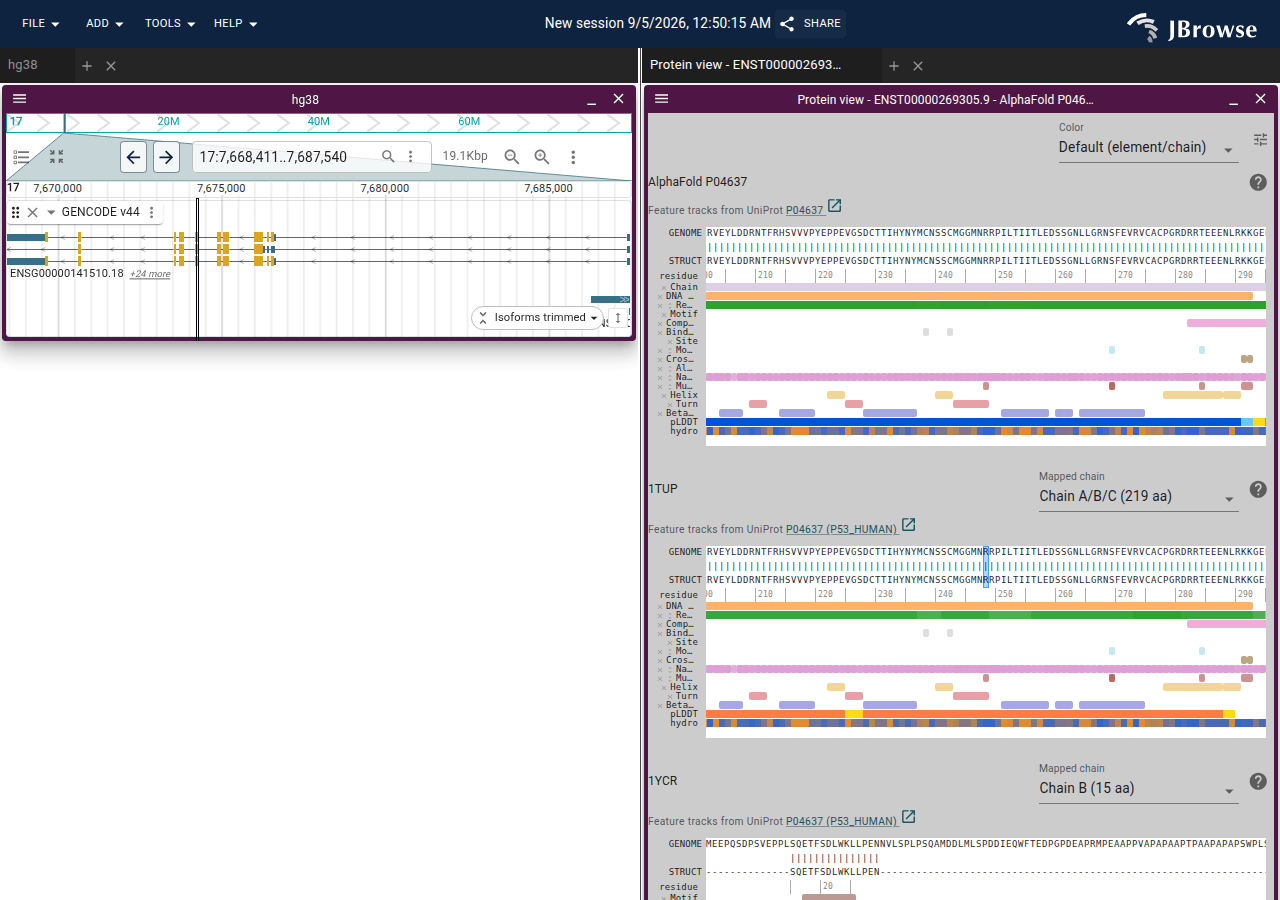
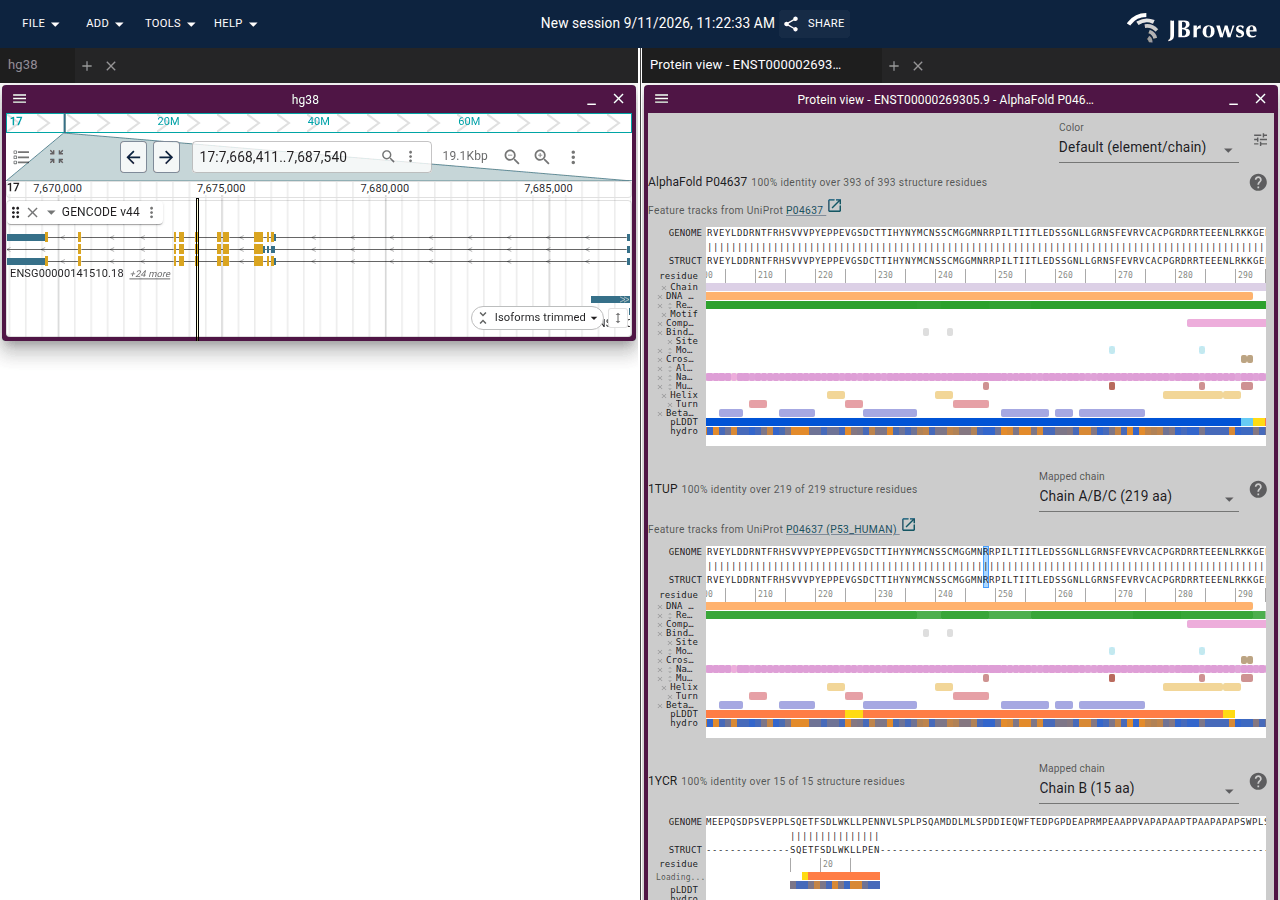
fix(alignmentQuality): a short but near-perfect peptide alignment is not low similarity
The e2e screenshot showed 1YCR's 15 p53 residues, every one identical,
flagged under a flat 20-identical-residue floor. Under 20 residues the
ratio floor now rises to 0.8 instead, which a real bound peptide clears
and a 10-residue decoy with 3 identities does not; under 5 nothing passes.
Reference screenshots for the multi-structure and hotspot legs updated for
the header readout.

diff --git a/src/ProteinView/alignmentQuality.ts b/src/ProteinView/alignmentQuality.ts
@@ -32,11 +32,19 @@ export interface AlignmentQuality {
  * identity nor coverage alone separates those from a real match. Identical
  * residues over the shorter sequence does: 0.03, 0.20 and 0.24 for the chance
  * cases against 0.9 or better for any structure of the transcript's protein
- * and about 0.6 for an ortholog. The residue floor keeps a 20-column chance
- * hit on a short peptide from passing on ratio alone.
+ * and about 0.6 for an ortholog.
+ *
+ * A short alignment has to be nearly perfect instead: a 10-residue decoy with
+ * 3 identities sits at the ratio floor, while a real bound peptide (1YCR's 15
+ * p53 residues, 4ZZJ's 7) is identical or one off. So under
+ * SHORT_ALIGNMENT_RESIDUES identical residues the ratio floor rises to
+ * SHORT_ALIGNMENT_IDENTITY, and under MIN_IDENTICAL_RESIDUES nothing passes,
+ * since a tetrapeptide is never the gene's product.
  */
 export const LOW_IDENTITY_OVER_SHORTER = 0.3
-export const MIN_IDENTICAL_RESIDUES = 20
+export const SHORT_ALIGNMENT_RESIDUES = 20
+export const SHORT_ALIGNMENT_IDENTITY = 0.8
+export const MIN_IDENTICAL_RESIDUES = 5
 
 export function alignmentQuality(pa: PairwiseAlignment): AlignmentQuality {
   const t = transcriptAlignedSeq(pa)
@@ -76,10 +84,11 @@ export function alignmentQuality(pa: PairwiseAlignment): AlignmentQuality {
 }
 
 export function isLowSimilarity(q: AlignmentQuality) {
-  return (
-    q.identical < MIN_IDENTICAL_RESIDUES ||
-    q.identityOverShorter < LOW_IDENTITY_OVER_SHORTER
-  )
+  const floor =
+    q.identical < SHORT_ALIGNMENT_RESIDUES
+      ? SHORT_ALIGNMENT_IDENTITY
+      : LOW_IDENTITY_OVER_SHORTER
+  return q.identical < MIN_IDENTICAL_RESIDUES || q.identityOverShorter < floor
 }
 
 /** One line for the alignment header: "87% identity over 219 of 393

diff --git a/src/ProteinView/alignmentQuality.test.ts b/src/ProteinView/alignmentQuality.test.ts
@@ -3,11 +3,12 @@ import { expect, test } from 'vitest'
 import {
   HBB_BETA_4HHB_ENTITY1,
   HBB_TRANSCRIPT_P68871,
+  P53_PEPTIDE_4ZZJ_ENTITY1,
   P53_TRANSCRIPT_P04637,
   RPS11_7K00_CHAIN_K,
 } from './__fixtures__/structureFixtures'
 import {
-  MIN_IDENTICAL_RESIDUES,
+  SHORT_ALIGNMENT_RESIDUES,
   alignmentQuality,
   describeAlignmentQuality,
   isLowSimilarity,
@@ -69,8 +70,32 @@ test('a real match is not flagged, a chance alignment is', () => {
       'smith_waterman',
     )!.alignment,
   )
-  expect(chance.identical).toBeGreaterThanOrEqual(MIN_IDENTICAL_RESIDUES)
+  expect(chance.identical).toBeGreaterThanOrEqual(SHORT_ALIGNMENT_RESIDUES)
   expect(chance.identity).toBeGreaterThan(0.3)
   expect(chance.identityOverShorter).toBeLessThan(0.3)
   expect(isLowSimilarity(chance)).toBe(true)
+})
+
+// 1YCR's chain B is 15 p53 residues, every one identical; the e2e screenshot
+// showed it flagged under a flat 20-residue floor. A short alignment passes
+// when it is nearly perfect, which a chance hit on a short chain never is.
+test('a short but near-perfect peptide alignment is not flagged, a partial one is', () => {
+  const peptide = alignmentQuality(
+    alignTranscriptToEntity(
+      P53_TRANSCRIPT_P04637,
+      P53_PEPTIDE_4ZZJ_ENTITY1,
+      'smith_waterman',
+    )!.alignment,
+  )
+  expect(peptide.identical).toBe(6)
+  expect(isLowSimilarity(peptide)).toBe(false)
+  expect(
+    isLowSimilarity(alignmentQuality(pa('A'.repeat(15), 'A'.repeat(15)))),
+  ).toBe(false)
+  // a 10-residue decoy with 3 identities
+  expect(
+    isLowSimilarity(alignmentQuality(pa('AAAWWWWWWW', 'AAAKKKKKKK'))),
+  ).toBe(true)
+  // a tetrapeptide is never the gene's product
+  expect(isLowSimilarity(alignmentQuality(pa('AAAA', 'AAAA')))).toBe(true)
 })

diff --git a/src/ProteinView/components/ProteinAlignment.tsx b/src/ProteinView/components/ProteinAlignment.tsx
@@ -20,7 +20,8 @@ import ExternalLink from '../../components/ExternalLink'
 import { structureAlignedSeq, transcriptAlignedSeq } from '../../mappings'
 import {
   LOW_IDENTITY_OVER_SHORTER,
-  MIN_IDENTICAL_RESIDUES,
+  SHORT_ALIGNMENT_IDENTITY,
+  SHORT_ALIGNMENT_RESIDUES,
   describeAlignmentQuality,
   isLowSimilarity,
 } from '../alignmentQuality'
@@ -242,7 +243,7 @@ const ProteinAlignment = observer(function ProteinAlignment({
           ) : null}
           {quality && isLowSimilarity(quality) ? (
             <Tooltip
-              title={`Fewer than ${MIN_IDENTICAL_RESIDUES} identical residues, or under ${Math.round(LOW_IDENTITY_OVER_SHORTER * 100)}% of the shorter sequence identical: an alignment this weak is what two unrelated proteins produce, so the positions it maps may be unrelated. Check the mapped chain, the transcript isoform, or import a curated alignment.`}
+              title={`Under ${Math.round(LOW_IDENTITY_OVER_SHORTER * 100)}% of the shorter sequence is identical (${Math.round(SHORT_ALIGNMENT_IDENTITY * 100)}% for an alignment of fewer than ${SHORT_ALIGNMENT_RESIDUES} residues): an alignment this weak is what two unrelated proteins produce, so the positions it maps may be unrelated. Check the mapped chain, the transcript isoform, or import a curated alignment.`}
             >
               <Typography
                 variant="caption"

diff --git a/docs/genome-to-structure-alignment.md b/docs/genome-to-structure-alignment.md
@@ -59,8 +59,8 @@ Foldseek hits, and files the user opens by hand, none of which SIFTS covers.
    what keeps a point-mutant structure usable.
 5. **Report.** The alignment panel header shows identity over the aligned
    columns and how many of the structure's residues they cover, and warns when
-   fewer than 20 residues are identical or fewer than 30% of the shorter
-   sequence's residues are.
+   fewer than 30% of the shorter sequence's residues are identical, or fewer
+   than 80% for an alignment under 20 residues.
 
 ## Why the scores are what they are
 
@@ -97,7 +97,11 @@ identity. Coverage does not either, since the 500 × 150 case covers two thirds
 of the shorter chain. Identical residues over the shorter sequence does: 0.03,
 0.20, 0.15 and 0.24 for the chance cases, against 0.9 or better for any
 structure of the transcript's protein and about 0.6 for an ortholog. The warning
-fires under 0.3 on that ratio or under 20 identical residues.
+fires under 0.3 on that ratio. A short alignment has to be nearly perfect
+instead: under 20 identical residues the floor rises to 0.8, which a real bound
+peptide clears (1YCR's 15 p53 residues are all identical, 4ZZJ's 7 are one off)
+and a 10-residue decoy with 3 identities does not; under 5 identical residues
+nothing passes.
 
 **Isoform ranking.** An isoform whose translation equals the structure's
 sequence is chosen outright. Any SEQRES lacking Met1 or carrying a tag, which is
